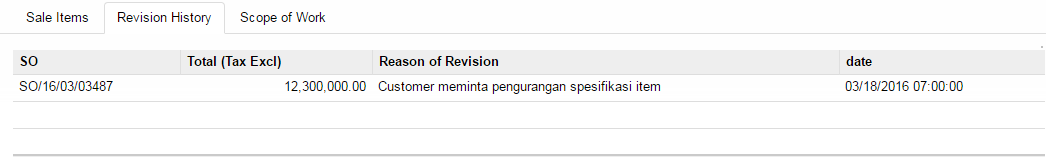
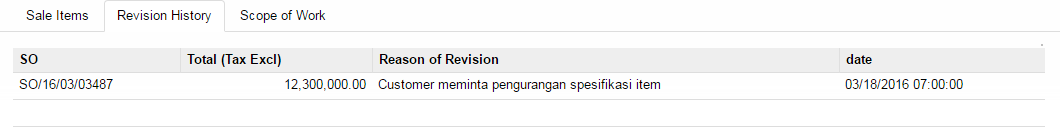
pembuatan penawaran 2

diff --git a/source/pages/faq/case_penawaran.rst b/source/pages/faq/case_penawaran.rst
@@ -149,4 +149,4 @@ Untuk menjelaskan cara penginputan pada form **Quotation**, dibawah ini akan mem
 
 - Barulah setelah itu data penawaran kembali diubah sesuai dengan keinginan Customer. Dan tahap selanjutnya adalah kembali melakukan penginputan seperti tahap sebelumnya. Untuk melihat hasil revisi dari penawaran dapat melihat pada tab Revision History.
 
-.. image:: /img/mp-revisereason.png
+.. image:: /img/mp-revisionhistory.png
